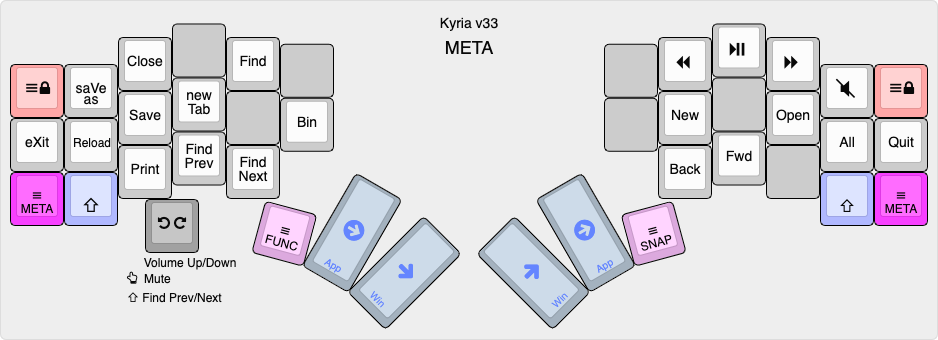
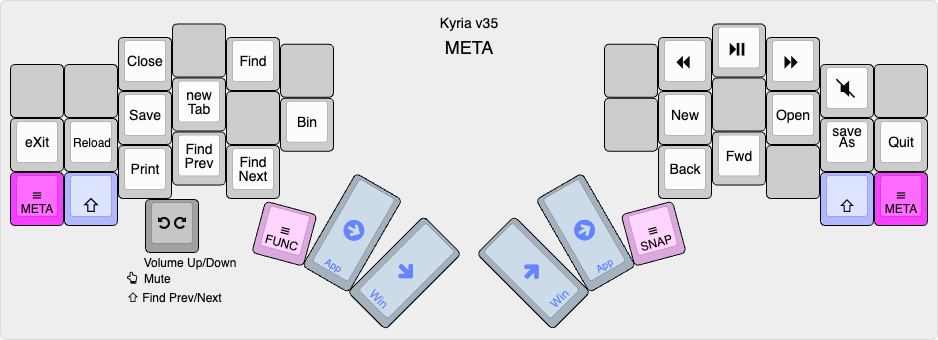
Updated KLE links and bitmaps

diff --git a/kyria-rsthd-prime/README.md b/kyria-rsthd-prime/README.md
@@ -75,7 +75,7 @@ Layer switching is done with custom code, so that a. shifted and custom keys can
 
 ![kyria-rsthd-prime-alpha](docs/images/kyria-rsthd-prime-alpha.png)
 
-[KLE link](http://www.keyboard-layout-editor.com/#/gists/fd8f2b651f6708b30a515ef4f236e277)
+[KLE link](http://www.keyboard-layout-editor.com/#/gists/a48554fccaea2a2266e58876b8b8f142)
 
 The alpha layout aims to reduce lateral finger movement on the index finger. In fact the lower key of the inner column has been completely removed in this version. A slightly older version performed very well in an [analyzer](docs/prime-on-the-analyzer.md), with low SFU (same finger utilization) stats and low travel distance. For absolute minimum SFBs, swap P and F.  For lower left pinky usage (but higher inner index), swap V and J.
 
@@ -93,7 +93,7 @@ Activated by the left thumb.
 
 ![kyria-rsthd-prime-syms](docs/images/kyria-rsthd-prime-syms.png)
 
-[KLE link](http://www.keyboard-layout-editor.com/#/gists/1fe2cfee9a3cba7f4a122ce6527332ab)
+[KLE link](http://www.keyboard-layout-editor.com/#/gists/0cda56d56e7e269cce643fd397d6f518)
 
 Unshifted, this layer contains the rest of the punctuation characters. I've arranged them so that many common (for me) two-letter sequences can be typed with an inward roll. For example: `{% %} <% %> </ /> => -> ~/`. Additional sequences such as `<?` `?>`  `!=` `);` are accessed with comborolls, to avoid flipping between the alpha and syms layers.
 
@@ -108,7 +108,7 @@ Activated by the right thumb.
 
 ![kyria-rsthd-prime-edit](docs/images/kyria-rsthd-prime-edit.png)
 
-[KLE link](http://www.keyboard-layout-editor.com/#/gists/f6370a99eab0b9170893fc12354dc4c7)
+[KLE link](http://www.keyboard-layout-editor.com/#/gists/da3a42f92f10874a56e664c1ea154b02)
 
 This layer extends the idea of platform-independent shortcuts to a complete layer. The navigation keys on the left have the standard cursor keys, home, end and page up/down.
 
@@ -128,7 +128,7 @@ Activated by either pinky.
 
 ![kyria-rsthd-prime-meta](docs/images/kyria-rsthd-prime-meta.png)
 
-[KLE link](http://www.keyboard-layout-editor.com/#/gists/0c14a73c58276dd44af1fd28eef638b6)
+[KLE link](http://www.keyboard-layout-editor.com/#/gists/215ec7e4fabd3d619b2a7937bb030b63)
 
 This layer contains common shortcut keys. They are mostly arranged according to the letter used in the Mac/Windows shortcut. For example, the S key invokes Save (Cmd-S on Mac, Ctrl-S on Windows). However, the mapping is not always that straightforward (e.g. Cmd-Q on Mac and Alt-F4 on Windows), hence the need for a dedicated layer.
 
@@ -141,7 +141,7 @@ Activated by the left thumb from the META layer.
 
 ![kyria-rsthd-prime-func](docs/images/kyria-rsthd-prime-func.png)
 
-[KLE link](http://www.keyboard-layout-editor.com/#/gists/f449a968f9a64c6ebeebe3ff4b5ee3c6)
+[KLE link](http://www.keyboard-layout-editor.com/#/gists/53ebdf360cfd77b3e7bcdceae14dc78d)
 
 This layer contains function keys on the right hand, arranged roughly the same as the numpad. It also contains the keys that switch between macOS, Windows and Linux shortcuts.
 
@@ -153,7 +153,7 @@ Activated by the right thumb from the META layer.
 
 ![kyria-rsthd-prime-snap](docs/images/kyria-rsthd-prime-snap.png)
 
-[KLE link](http://www.keyboard-layout-editor.com/#/gists/6b8a2ef2ab72df3c36839a2a106f6303)
+[KLE link](http://www.keyboard-layout-editor.com/#/gists/fbecdc0202bbec91e8943985a22800ce)
 
 So called because of the keys for window snapping, which snap to one of the screen halves or quadrants. The center key sets the window to the full vertical height. This works on macOS if [Rectangle](https://rectangleapp.com) is running; not really working on Windows and Linux yet.
 
